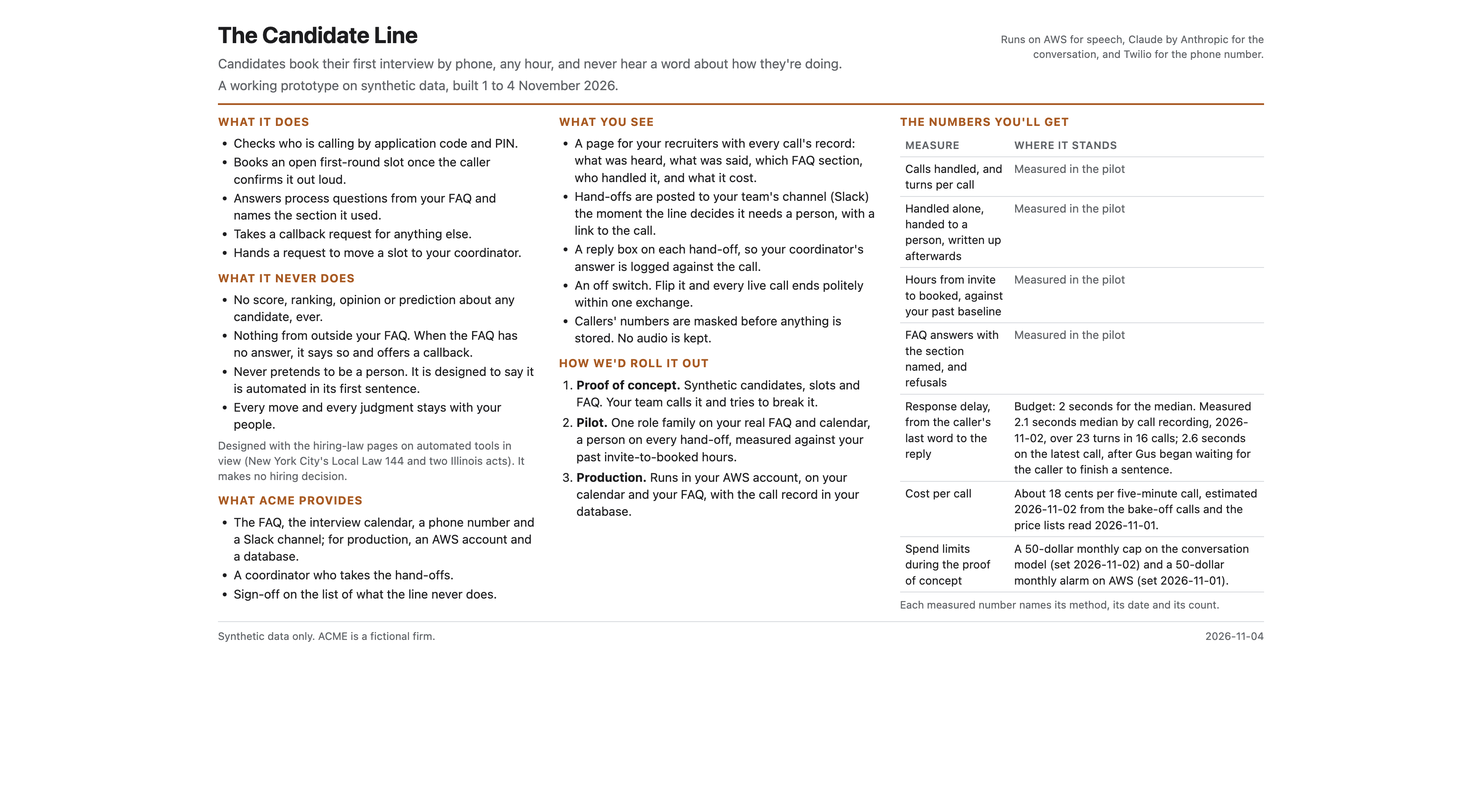
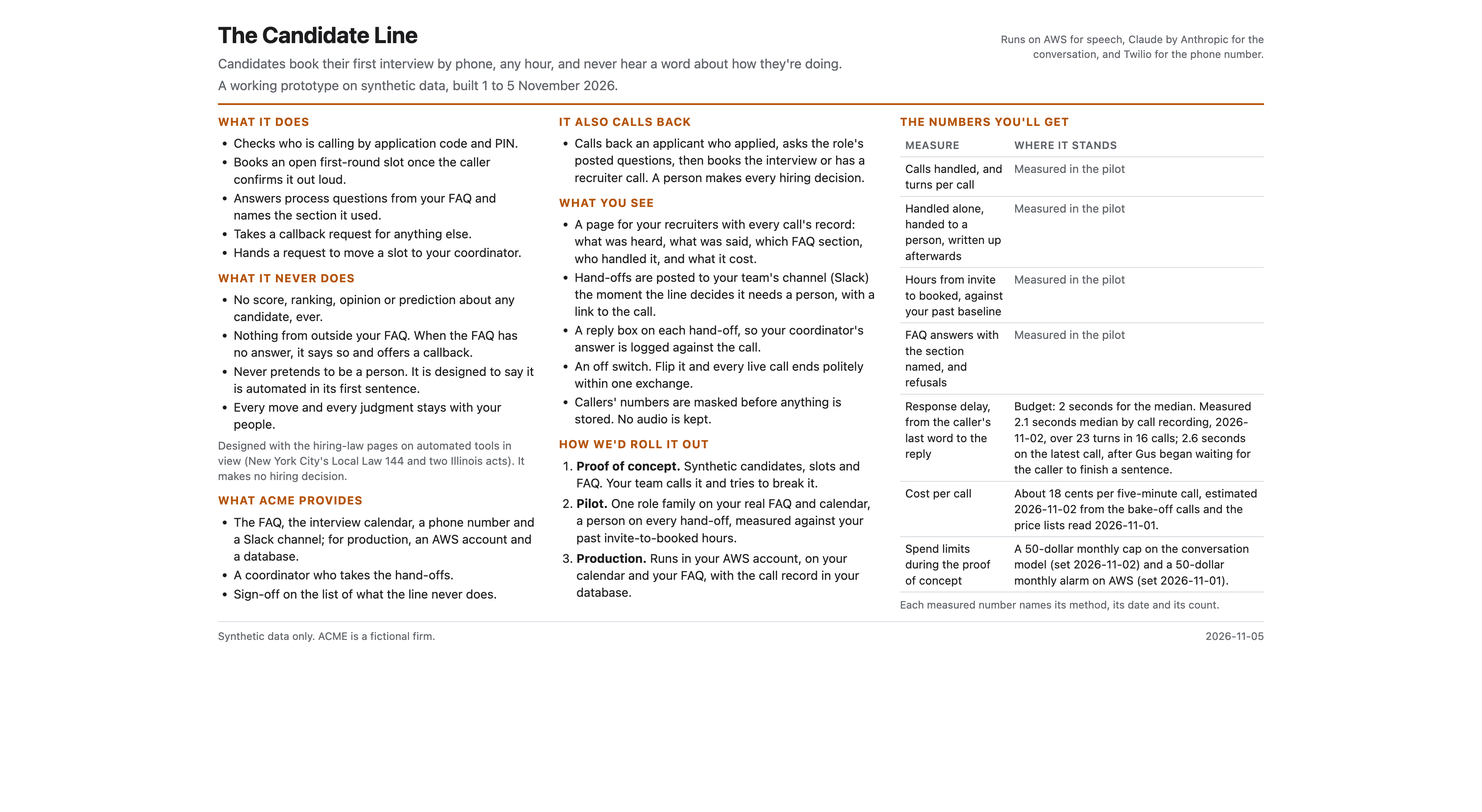
chore: merge docs8 (the reader pages and the two showcase pictures carry the outbound call, DR-025)
Claude-Session: https://claude.ai/code/session_01TFo7LmXcRdBPhcak2oBiDg

diff --git a/docs/showcase/architecture.html b/docs/showcase/architecture.html
@@ -17,6 +17,9 @@
     --orange-fill: #FFF6E8;
     --pill-fill: #FFE9CC;
     --arrow: #4A5361;
+    --blue: #1F5FA8;
+    --blue-ink: #174A84;
+    --blue-fill: #EEF4FB;
   }
   html, body { margin: 0; background: #FFFFFF; color: var(--ink);
     font-family: -apple-system, BlinkMacSystemFont, "Segoe UI", Helvetica, Arial, sans-serif; }
@@ -65,11 +68,20 @@
     color: var(--orange-ink); background: var(--pill-fill); border: 1px solid var(--orange);
     border-radius: 999px; padding: 4px 9px; white-space: nowrap; }
 
+  .out-label { margin: 16px 0 5px; font-size: 13px; font-weight: 600; color: var(--blue-ink); }
+  .out-label span { font-weight: 400; font-size: 12px; color: var(--muted); margin-left: 8px; }
+  .out { display: grid; grid-template-columns: 1fr 16px 1fr 16px 1fr 16px 1fr 16px 1fr 16px 1fr; align-items: stretch; }
+  .out .box { background: var(--blue-fill); border: 1.5px dashed var(--blue); padding: 8px 11px 9px; gap: 2px; }
+  .out .box h3 { font-size: 14.5px; }
+  .out .box p { margin-top: 1px; font-size: 12.5px; line-height: 1.3; }
+  .inner.out { background: var(--blue-fill); border: 1.2px dashed var(--blue); color: var(--blue-ink); font-weight: 600; }
+
   .legend { margin-top: 10px; display: flex; align-items: center; gap: 26px; font-size: 12.5px; }
   .legend span { display: inline-flex; align-items: center; gap: 8px; }
   .sw { display: inline-block; width: 26px; height: 16px; border-radius: 4px; box-sizing: border-box; }
   .sw.pre { background: var(--grey); border: 1.4px solid var(--line); }
   .sw.live { background: var(--orange-fill); border: 1.4px dashed var(--orange); }
+  .sw.out { background: var(--blue-fill); border: 1.4px dashed var(--blue); }
   .legend .pill { position: static; }
 
   .footer { margin-top: 8px; padding-top: 7px; border-top: 1px solid #E1E4E9;
@@ -80,14 +92,14 @@
   @media print {
     html, body { background: #FFFFFF; }
     .page { zoom: 0.76; padding: 0; }
-    .box, .frame, .callout, .pill, .sw, .inner { -webkit-print-color-adjust: exact; print-color-adjust: exact; }
+    .box, .frame, .callout, .pill, .sw, .inner, .out .box { -webkit-print-color-adjust: exact; print-color-adjust: exact; }
   }
 </style>
 </head>
 <body>
 <div class="page">
   <h1>How a Call to Gus Works</h1>
-  <p class="sub">The call comes in along the top row and Gus's answer goes back along the bottom. The phone, text mode and the tests share one turn loop.</p>
+  <p class="sub">The call comes in along the top row and Gus's answer goes back along the bottom. The phone, text mode and the tests share one turn loop. The outbound call (blue) joins the same path.</p>
 
   <div class="call">
     <div class="frame"></div>
@@ -184,6 +196,45 @@
     <svg class="arrow left" style="grid-column:12; grid-row:6" width="20" height="12" viewBox="0 0 20 12" aria-hidden="true"><path d="M0 6H13" stroke="#4A5361" stroke-width="2"/><path d="M12 1L19 6L12 11Z" fill="#4A5361"/></svg>
   </div>
 
+  <div class="out-label">The Outbound Call, Built 5 November<span>Off by default. The same front door, stream, brain and guard; applicants listed in the cockpit; three new secrets in Secrets Manager. A person makes every hiring decision.</span></div>
+  <div class="out">
+    <div class="box" style="grid-column:1">
+      <h3>Signed Intake</h3>
+      <div class="cap">POST /applications</div>
+      <p>Signed by the careers form, with consent. A stale or replayed one is refused.</p>
+    </div>
+    <svg class="arrow" style="grid-column:2" width="16" height="12" viewBox="0 0 16 12" aria-hidden="true"><path d="M0 6H9" stroke="#4A5361" stroke-width="2"/><path d="M8 1L15 6L8 11Z" fill="#4A5361"/></svg>
+    <div class="box" style="grid-column:3">
+      <h3>Contacts Store</h3>
+      <div class="cap">One file, mode 600</div>
+      <p>The only raw numbers, read only by the dialler. Deleted after 30 days or on a stop.</p>
+    </div>
+    <svg class="arrow" style="grid-column:4" width="16" height="12" viewBox="0 0 16 12" aria-hidden="true"><path d="M0 6H9" stroke="#4A5361" stroke-width="2"/><path d="M8 1L15 6L8 11Z" fill="#4A5361"/></svg>
+    <div class="box" style="grid-column:5">
+      <h3>Dialler</h3>
+      <div class="cap">A loop in the line</div>
+      <p>Allow-listed numbers only; 09:00 to 20:00 Mon to Sat, their zone; 3 tries, 20 a day.</p>
+    </div>
+    <svg class="arrow" style="grid-column:6" width="16" height="12" viewBox="0 0 16 12" aria-hidden="true"><path d="M0 6H9" stroke="#4A5361" stroke-width="2"/><path d="M8 1L15 6L8 11Z" fill="#4A5361"/></svg>
+    <div class="box" style="grid-column:7">
+      <h3>Twilio Dials Out</h3>
+      <div class="cap">Opening in Twilio's own voice</div>
+      <p>Says ACME, automated and transcribed first; nothing can cut it off.</p>
+    </div>
+    <svg class="arrow" style="grid-column:8" width="16" height="12" viewBox="0 0 16 12" aria-hidden="true"><path d="M0 6H9" stroke="#4A5361" stroke-width="2"/><path d="M8 1L15 6L8 11Z" fill="#4A5361"/></svg>
+    <div class="box" style="grid-column:9">
+      <h3>The Gate, in Code</h3>
+      <div class="cap">Before book_slot</div>
+      <p>Each answer against its posted requirement, never said as a judgment.</p>
+    </div>
+    <svg class="arrow" style="grid-column:10" width="16" height="12" viewBox="0 0 16 12" aria-hidden="true"><path d="M0 6H9" stroke="#4A5361" stroke-width="2"/><path d="M8 1L15 6L8 11Z" fill="#4A5361"/></svg>
+    <div class="box" style="grid-column:11">
+      <h3>Book or Hand Off</h3>
+      <div class="cap">Screening hand-off by email</div>
+      <p>All met: open times to book. One not: the recruiter is emailed, never the answers.</p>
+    </div>
+  </div>
+
   <div class="beside-label">Beside the Call</div>
   <div class="beside">
     <div class="box" style="grid-column:1">
@@ -221,12 +272,13 @@
   <div class="legend">
     <span><i class="sw pre"></i>Built before the session, listed with dates in PREBUILT.md</span>
     <span><i class="sw live"></i>Built the evening of 4 November, after the session</span>
+    <span><i class="sw out"></i>Built 5 November (DR-025)</span>
     <span><span class="pill">Live</span>The live part of a pre-built piece</span>
   </div>
 
   <div class="footer">
-    <div>Built the evening of 4 November, in the cards' order: the rules page, the tests, the call-record wiring, the tools and persona, the safety filter, the tiers, the hand-off rule and the off switch; then the scorecard and CI (DR-022) and the container on AWS (DR-023).</div>
-    <div class="date">From the code, 2026-11-04</div>
+    <div>Built the evening of 4 November, in the cards' order: the rules page, the tests, the call-record wiring, the tools and persona, the safety filter, the tiers, the hand-off rule and the off switch; then the scorecard and CI (DR-022) and the container on AWS (DR-023). Built 5 November: the outbound screening call (DR-025).</div>
+    <div class="date">From the code, 2026-11-05</div>
   </div>
 </div>
 </body>

diff --git a/docs/showcase/customer.html b/docs/showcase/customer.html
@@ -49,7 +49,7 @@
     <div>
       <h1>The Candidate Line</h1>
       <p class="promise">Candidates book their first interview by phone, any hour, and never hear a word about how they're doing.</p>
-      <p class="promise">A working prototype on synthetic data, built 1 to 4 November 2026.</p>
+      <p class="promise">A working prototype on synthetic data, built 1 to 5 November 2026.</p>
     </div>
     <div class="runs">Runs on AWS for speech, Claude by Anthropic for the conversation, and Twilio for the phone number.</div>
   </header>
@@ -87,6 +87,12 @@
     </div>
 
     <div>
+      <section>
+        <h2>It Also Calls Back</h2>
+        <ul>
+          <li>Calls back an applicant who applied, asks the role's posted questions, then books the interview or has a recruiter call. A person makes every hiring decision.</li>
+        </ul>
+      </section>
       <section>
         <h2>What You See</h2>
         <ul>
@@ -127,7 +133,7 @@
 
   <footer>
     <span>Synthetic data only. ACME is a fictional firm.</span>
-    <span>2026-11-04</span>
+    <span>2026-11-05</span>
   </footer>
 </div>
 </body>

diff --git a/README.md b/README.md
@@ -2,13 +2,13 @@
 
 ![tests](https://github.com/AIJSAI/candidate-line/actions/workflows/ci.yml/badge.svg)
 
-A phone line for the job candidates of ACME, a fictional firm, built on AWS: Amazon Transcribe for the ears, Amazon Polly for the voice, Claude for the conversation (Haiku 5.5 on the Anthropic API today, with Claude on Amazon Bedrock one environment variable away, `DR-003` says why), Twilio for the number, and IAM Identity Center for a sign-in with no long-lived key. A voice agent called Gus verifies a caller by application code and PIN, books a first-round interview slot, answers process questions from an FAQ and names the section he used, takes a callback request, hands a slot move to a person, and never evaluates anyone. The plumbing (the phone path, text mode, the tests, the eval runner, the trace store and the recruiter's cockpit) was built on 1 to 3 November 2026 and is declared in `PREBUILT.md`. The parts that decide what Gus says (the spec, the tools over the data, the persona, the guard, the tiers and the eval cases) were planned for a one-hour live session on 4 November that went to another topic, and were built the same evening after a test call with a valid code found the placeholder prompt refusing it; `spec.md` and the records from `DR-016` on say what was decided and why. All data is synthetic. No account, key or phone number is in this repository.
+A phone line for the job candidates of ACME, a fictional firm, built on AWS: Amazon Transcribe for the ears, Amazon Polly for the voice, Claude for the conversation (Haiku 5.5 on the Anthropic API today, with Claude on Amazon Bedrock one environment variable away, `DR-003` says why), Twilio for the number, and IAM Identity Center for a sign-in with no long-lived key. A voice agent called Gus verifies a caller by application code and PIN, books a first-round interview slot, answers process questions from an FAQ and names the section he used, takes a callback request, hands a slot move to a person, and never evaluates anyone. The plumbing (the phone path, text mode, the tests, the eval runner, the trace store and the recruiter's cockpit) was built on 1 to 3 November 2026 and is declared in `PREBUILT.md`. The parts that decide what Gus says (the spec, the tools over the data, the persona, the guard, the tiers and the eval cases) were planned for a one-hour live session on 4 November that went to another topic, and were built the same evening after a test call with a valid code found the placeholder prompt refusing it; `spec.md` and the records from `DR-016` on say what was decided and why. On 5 November the line gained an outbound screening call, built from card 08 after James ruled its shape the same day (`spec.md` section 9, `DR-025`). All data is synthetic. No account, key or phone number is in this repository.
 
-The author is James Shehan; "James" in the files is him. The tree was built with Claude Code from the numbered items in `KICKOFF.md`, with every decision written down as it was made; the seven cards in `prompts/` were written for the session and dry-run twice in scratch copies (`docs/decisions/DR-015`). The files call that live session "the room" or "the hour"; "the session" in this README means the same thing.
+The author is James Shehan; "James" in the files is him. The tree was built with Claude Code from the numbered items in `KICKOFF.md`, with every decision written down as it was made; the seven cards in `prompts/` were written for the session and dry-run twice in scratch copies (`docs/decisions/DR-015`), and an eighth, card 08, was written on 5 November for the outbound call. The files call that live session "the room" or "the hour"; "the session" in this README means the same thing.
 
-![The architecture: the phone path, the brain, the records and the cockpit](docs/showcase/architecture.png)
+![The architecture: the phone path, the brain, the records, the cockpit and the outbound call](docs/showcase/architecture.png)
 
-Grey boxes were built before the session, each with its commit in `PREBUILT.md`. Orange boxes were built on the evening of 4 November, each with its record.
+Grey boxes were built before the session, each with its commit in `PREBUILT.md`. Orange boxes were built on the evening of 4 November, each with its record. The blue band, the outbound call, was built on 5 November (`DR-025`).
 
 ## Five Minutes, in This Order
 
@@ -22,20 +22,39 @@ The records are long, so start here:
 
 `AGENTS.md` holds the rules every coding agent here follows; `.claude/settings.json` lists the commands it may run without asking. `KICKOFF.md` is the plan for the build days of 1 to 3 November, kept as it was written. Where it and a decision record disagree, the record is newer.
 
+## The Outbound Call
+
+An applicant who applied with consent is called back within minutes, inside the calling window. The call opens in Twilio's own voice, before the audio stream starts, and says first that the line is automated and transcribed. The applicant confirms the PIN they chose when they applied. Gus then reads the role's posted questions word for word, from `data/roles.yaml`, and after each answer says one fixed line, "Noted:" and the answer. When every posted requirement is met, Gus reads the recruiter's open interview times and books the one the applicant names. When one is not met, Gus says in fixed words what the posting asks for and when a recruiter will call, and the recruiter gets an email with a link to the answers on the cockpit, never the answers themselves. In this demo that email reaches the operator, who alone can open the cockpit (`prompts/08`, open decision 7).
+
+The choice between those two endings is a gate, and the gate is code: one pure function, `candidate_line/tools/rules.py`, compares the applicant's own answer with the requirement the employer posted, one question at a time. It decides only whether the line offers an interview now or a recruiter calls back. It has no score, weight or ranking and never compares one applicant with another, and `book_slot` refuses in code until it says every requirement is met. It is never spoken as a judgment: every line after an answer is fixed and said by code, the same for every applicant, and no line says qualify, eligible, failed or passed. A person makes every hiring decision.
+
+The dialler ships off (`OUTBOUND_ENABLED` is 0 by default). While the line is a demo it may call only the numbers on an allow-list, the probe's and the operator's, checked in code before every dial and again when the call is answered. It calls from 09:00 to 20:00, Monday to Saturday, in the applicant's own time zone, at most three times with one voicemail, at most 20 dials a day and one call at a time, and a "stop" on any call ends every later dial at once. The raw phone number lives in one file read only by the dialler and is deleted after 30 days, or at once on a stop or a deletion request; the answers are deleted after four years. The intake is signed with a timestamp and a nonce. Calling real applicants needs counsel's read and its own decision record first (`prompts/08`, open decision 2). The contracts, the spend and the security are in `docs/decisions/DR-025-outbound-screening.md`.
+
 ## Run It
 
 With `uv` installed (`brew install uv` on a Mac, or the installer on uv's own site; the project pins Python 3.12):
 
 ```
-make test                       # the test suite, no account needed
+make test                       # the test suite, no account needed (1,079 passed on 5 November)
 make eval                       # the eval cases through the same turn loop the phone uses; needs ANTHROPIC_API_KEY
 make text                       # text mode on Claude Haiku 5.5; needs ANTHROPIC_API_KEY in the environment
 BRAIN_PROVIDER=echo make text   # text mode with no account: Gus says back what you type; /quit ends it
 ```
 
-In text mode, try the synthetic candidates in `data/candidates.yaml`: "application code ACME-3233, PIN 9683" verifies as Hannah Haddad; then ask for a slot, ask how long the interview is, or ask Gus what he thinks of you. Bookings and callback requests are written to `var/state.json` (`STATE_PATH`), beside the trace store, and never to `data/`.
+In text mode, try the synthetic candidates in `data/candidates.yaml`: "application code ACME-3233, PIN 9683" verifies as Hannah Haddad; then ask for a slot, ask how long the interview is, or ask Gus what he thinks of you. Or try an applicant of `data/applications.yaml` who calls in: "my code is ACME-2609 and my PIN is 7750" verifies as Ines, who applied for the warehouse role, and Gus goes on with that role's posted questions, as the outbound call would (spec 9.8). Bookings, callback requests, applications, answers and dials are written to `var/state.json` (`STATE_PATH`), beside the trace store, and never to `data/`; a raw phone number is written only to `var/contacts.json` (`CONTACTS_PATH`).
 
-The phone path (`make up`, `make dev`, `make probe-dial`) needs an AWS account for transcription and speech, a Twilio number, and an Anthropic key. Since the evening of 4 November the line runs in a container on AWS: one Fargate task behind a load balancer and CloudFront, the store on EFS, the secrets in Secrets Manager, hand-offs by email through SNS, and a budget action that fails the line closed past a spend threshold. The stack is `infra/aws/candidate-line-stack.yaml`, the steps are `scripts/deploy.sh` (`make deploy STEP=...`), the image is `make image` from the `Dockerfile`, the plan is `docs/deploy/PLAN.md` and the record is `docs/decisions/DR-023-the-line-in-a-container.md`. None of those is here, and `docs/decisions/DR-002` says how the account was set up without a long-lived key in any file. `make voice-regression URL=wss://<host>/media` plays every eval case through the deployed line's audio path, one case at a time, and scores each from the line's own trace store (`docs/decisions/DR-024-the-voice-regression.md`). The code, data and prose are under the MIT license (`LICENSE`); `docs/refs/` holds vendor material under its own terms.
+The phone path (`make up`, `make dev`, `make probe-dial`) needs an AWS account for transcription and speech, a Twilio number, and an Anthropic key. Since the evening of 4 November the line runs in a container on AWS: one Fargate task behind a load balancer and CloudFront, the store on EFS, the secrets in Secrets Manager, hand-offs by email through SES with SNS behind it, and a budget action that fails the line closed past a spend threshold. The stack is `infra/aws/candidate-line-stack.yaml`, the steps are `scripts/deploy.sh` (`make deploy STEP=...`), the image is `make image` from the `Dockerfile`, the plan is `docs/deploy/PLAN.md` and the record is `docs/decisions/DR-023-the-line-in-a-container.md`. None of those is here, and `docs/decisions/DR-002` says how the account was set up without a long-lived key in any file. `make voice-regression URL=wss://<host>/media` plays every eval case through the deployed line's audio path, one case at a time, and scores each from the line's own trace store (`docs/decisions/DR-024-the-voice-regression.md`). The outbound call needs three more secrets in the login keychain (`make secret NAME=INTAKE_SIGNING_KEY`, then `OUTBOUND_ALLOWED_NUMBERS` and `TWILIO_LINE_NUMBER`); `make deploy STEP=secrets` copies them to Secrets Manager, and the stack step refuses to run until all three are there, because the task cannot start without them. Then:
+
+```
+make apply PIN=4321                    # a signed synthetic application to the line on this Mac (URL= for another); its fictional 555-01xx number is on no allow-list, so it is stored and never dialled
+make apply PIN=4321 PHONE=probe        # the same for the probe's own number, which the allow-list holds
+make probe-answer PUBLIC=https://<probe-host> WATCHED=1   # the probe applies for its own number and answers the line's call, a met screen and then a not-met one; it refuses to run without WATCHED=1
+make dial-off                          # the dialler's own stop on the task; calls in go on
+make dial-on                           # lifts it; OUTBOUND_ENABLED and the kill switch still decide
+make forget CODE=ACME-dddd             # a deletion request: the application, its answers, its dials, its calls' traces and its number
+```
+
+The cockpit's `/applicants` lists the applications in the order they arrived, with no sort and no count by answer, and `/applicants/<code>` shows each posted question beside the answer the line recorded; `make scorecard` adds four outbound rows, each with its method and n (spec 9.14). The code, data and prose are under the MIT license (`LICENSE`); `docs/refs/` holds vendor material under its own terms.
 
 ## How It Was Built
 
@@ -45,12 +64,16 @@ The picture is how I run builds across my own repositories. Here only steps 1 an
 
 ## The Pages
 
-Everything made for the session is in [`docs/showcase/`](docs/showcase/README.md): the architecture above, [how I build](docs/showcase/README.md#how-i-build-one-change-from-plan-to-main), [the one-page version for a business lead](docs/showcase/README.md#the-candidate-line-for-the-business-lead) and [the cockpit redesigned for the recruiting lead](docs/showcase/README.md#the-cockpit-redesigned-for-the-recruiting-lead), each as a picture and as a page; three of the four have notes that trace every line on them to a file in this tree, at the commit the notes name. The pre-built list is [`PREBUILT.md`](PREBUILT.md); the decision records are in [`docs/decisions/`](docs/decisions/); the seven cards are in [`prompts/`](prompts/).
+Everything made for the session is in [`docs/showcase/`](docs/showcase/README.md): the architecture above, [how I build](docs/showcase/README.md#how-i-build-one-change-from-plan-to-main), [the one-page version for a business lead](docs/showcase/README.md#the-candidate-line-for-the-business-lead) and [the cockpit redesigned for the recruiting lead](docs/showcase/README.md#the-cockpit-redesigned-for-the-recruiting-lead), each as a picture and as a page; three of the four have notes that trace every line on them to a file in this tree, at the commit the notes name. The pre-built list is [`PREBUILT.md`](PREBUILT.md); the decision records are in [`docs/decisions/`](docs/decisions/); the eight cards are in [`prompts/`](prompts/).
 
 ## The Session of 4 November 2026, and the Evening After
 
 The tag `room-2026-11-04` marks the tree as it was when the session opened: the plumbing, the rules, the records and the cards, with a placeholder prompt that carried only the rule never to evaluate a person. The hour went to another topic, so nothing was built in it. At 16:26 CT a test call with a valid code and PIN showed the placeholder asking again for the code the caller had just given. The same evening the seven cards' work was done in order and is in this tree: `spec.md` (DR-016), the eval cases and the first baseline (DR-017), the spans from the turn loop into the store (DR-018), the tools over `data/` and the persona (DR-019), the guard with its red-proof (DR-020), and the tiers, the hand-offs and the kill switch (DR-021). The scorecard (card 07) and CI for the tests followed the same evening (DR-022), and then the line itself went into a container on AWS (DR-023). The decisions the cards left open for the room were taken by the author and are marked in `spec.md`. Measured that evening: 36 eval cases pass on the live brain with a median brain time of 1,438 ms over 64 model turns and 0.00023 USD a call, on the baseline written after the review's fixes (`DR-017`); a probe call through Transcribe and Polly on the live line ran a median turn gap of 2.6 s over four replies, over the 2,000 ms budget of `DR-001` (that run is not in a record; the probes through the container later that evening are in `DR-023`).
 
+## The Build of 5 November 2026
+
+James ruled the outbound call's shape on 5 November, with the gate in code, and at 09:21 CT ruled on the rewording of Never 1, the new Never 7 and the outbound lines under Never 3 and Never 5, which stand in `spec.md` section 5 (`DR-025`, "The decision"). Lane 0 wrote spec section 9, the record, card 08 and the synthetic roles and applications; three lanes built the tools and the gate, the intake and the dialler, and the ledger, the cockpit, the scorecard and the stack, and were merged the same day. At this commit the suite is 1,079 tests and all of them pass (`uv run pytest -q`). The sixteen outbound eval cases, CL-041 to CL-056, entered `evals/cases` under the rule 4 amendment in `AGENTS.md`. The record of a live outbound call belongs in `DR-025`'s evidence; at this commit that section holds the pages the design rests on and the cost arithmetic, and no call.
+
 ## What Gus Must Never Do
 
-`spec.md` section 5, held by the persona, the guard and the eval set: no score, ranking, opinion, comparison or predicted outcome about a caller; no answer to a process question from anywhere but the FAQ; never pass for a person; never say a PIN aloud; never act for an unverified caller; never move a slot himself. A person makes every judgment about a candidate; the line only books, answers and hands off.
+`spec.md` section 5, held by the persona, the guard and the eval set: no score, ranking, opinion, comparison between people or predicted outcome about anyone; no answer to a process question from anywhere but the FAQ; never pass for a person, and on the outbound call say it is automated before anything else; never say a PIN aloud; never act for an unverified caller, and on the outbound call say nothing from the record but the applicant's first name before the PIN matches; never move a slot himself; never tell an applicant they do not qualify, failed or are out, and never close an application. The line's one check is the outbound gate, code comparing an applicant's own answer with a requirement the employer posted, and it is never spoken as a judgment. A person makes every hiring decision; the line only books, answers, asks the posted questions and hands off.

diff --git a/docs/showcase/README.md b/docs/showcase/README.md
@@ -1,12 +1,12 @@
 # The Pages Made for the Session
 
-Four pages drawn from this repository's code and records on 2026-11-03, for the session. Each is here as a picture and as the page itself (on GitHub a click on an `.html` file shows its source; download it to see the page). Three of the four have notes that say where every line on them comes from, with file and line references into this repository.
+Four pages drawn from this repository's code and records on 2026-11-03, for the session; the architecture and the business lead's page were brought up to date on 2026-11-05 for the outbound call. Each is here as a picture and as the page itself (on GitHub a click on an `.html` file shows its source; download it to see the page). Three of the four have notes that say where every line on them comes from, with file and line references into this repository.
 
 ## How a Call to Gus Works
 
-![How a call to Gus works: the phone path, the brain, the records and the cockpit](architecture.png)
+![How a call to Gus works: the phone path, the brain, the records, the cockpit and the outbound call](architecture.png)
 
-The phone path, the brain, the records and the cockpit. Grey boxes were built before the session; orange boxes were built on the evening of 4 November, after it. Page: [architecture.html](architecture.html). Notes: [architecture-notes.md](architecture-notes.md).
+The phone path, the brain, the records and the cockpit. Grey boxes were built before the session; orange boxes were built on the evening of 4 November, after it; the blue band is the outbound call, built on 5 November (DR-025). Page: [architecture.html](architecture.html). Notes: [architecture-notes.md](architecture-notes.md).
 
 ## How I Build: One Change, From Plan to Main
 
@@ -18,7 +18,7 @@ The system every build of mine runs under, numbered one to eleven, with what pro
 
 ![The one-page, non-technical version of the line](customer.png)
 
-The one-page, non-technical version: what it does, what it never does, what the client gets, what it costs, how it rolls out. It describes the line as built: the tools, the guard, the tiers and the off switch landed on the evening of 4 November (records DR-019 to DR-021). Page: [customer.html](customer.html). Notes: [customer-notes.md](customer-notes.md).
+The one-page, non-technical version: what it does, what it never does, what the client gets, what it costs, how it rolls out. It describes the line as built: the tools, the guard, the tiers and the off switch landed on the evening of 4 November (records DR-019 to DR-021), and the outbound call on 5 November (DR-025). Page: [customer.html](customer.html). Notes: [customer-notes.md](customer-notes.md).
 
 ## The Cockpit, Redesigned for the Recruiting Lead
 
